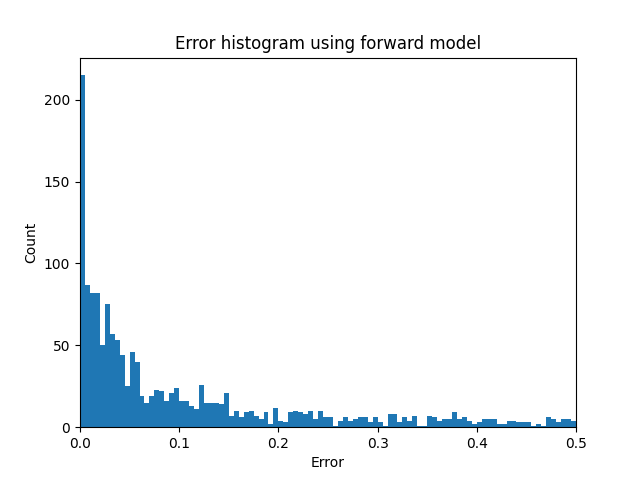
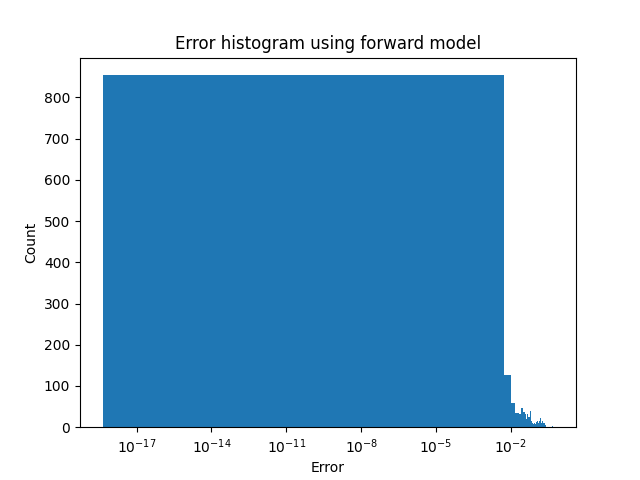
issues w log histogram

diff --git a/train.py b/train.py
@@ -41,8 +41,8 @@ def loss(ys, labels, x = None):
 def train():
     train_data, test_data = data_reader.read_data_sine_wave()
 
-    num_epochs = 500
-    #num_epochs = 40
+    #num_epochs = 500
+    num_epochs = 40
     #num_epochs = 5
 
     model_f = Forward()
@@ -178,17 +178,16 @@ def train():
     plt.title("Error histogram using forward model")
     plt.xlabel("Error")
     plt.ylabel("Count")
-    plt.xlim([0,0.5])
+    plt.xscale('log')
     plt.savefig("histogram_forward.png")
 
     plt.figure(2)
     plt.hist(sim_mses, bins=100, range = (0, 0.5))
     plt.xlabel("Error")
     plt.ylabel("Count")
-    plt.xlim([0, 0.5])
+    plt.xscale('log')
     plt.title("Error histogram using simulator")
     plt.savefig("histogram_simulator.png")
-
 
     plt.figure(3)
     plt.title("Forward training error {:0.4f}".format(min(forward_train_losses)))
